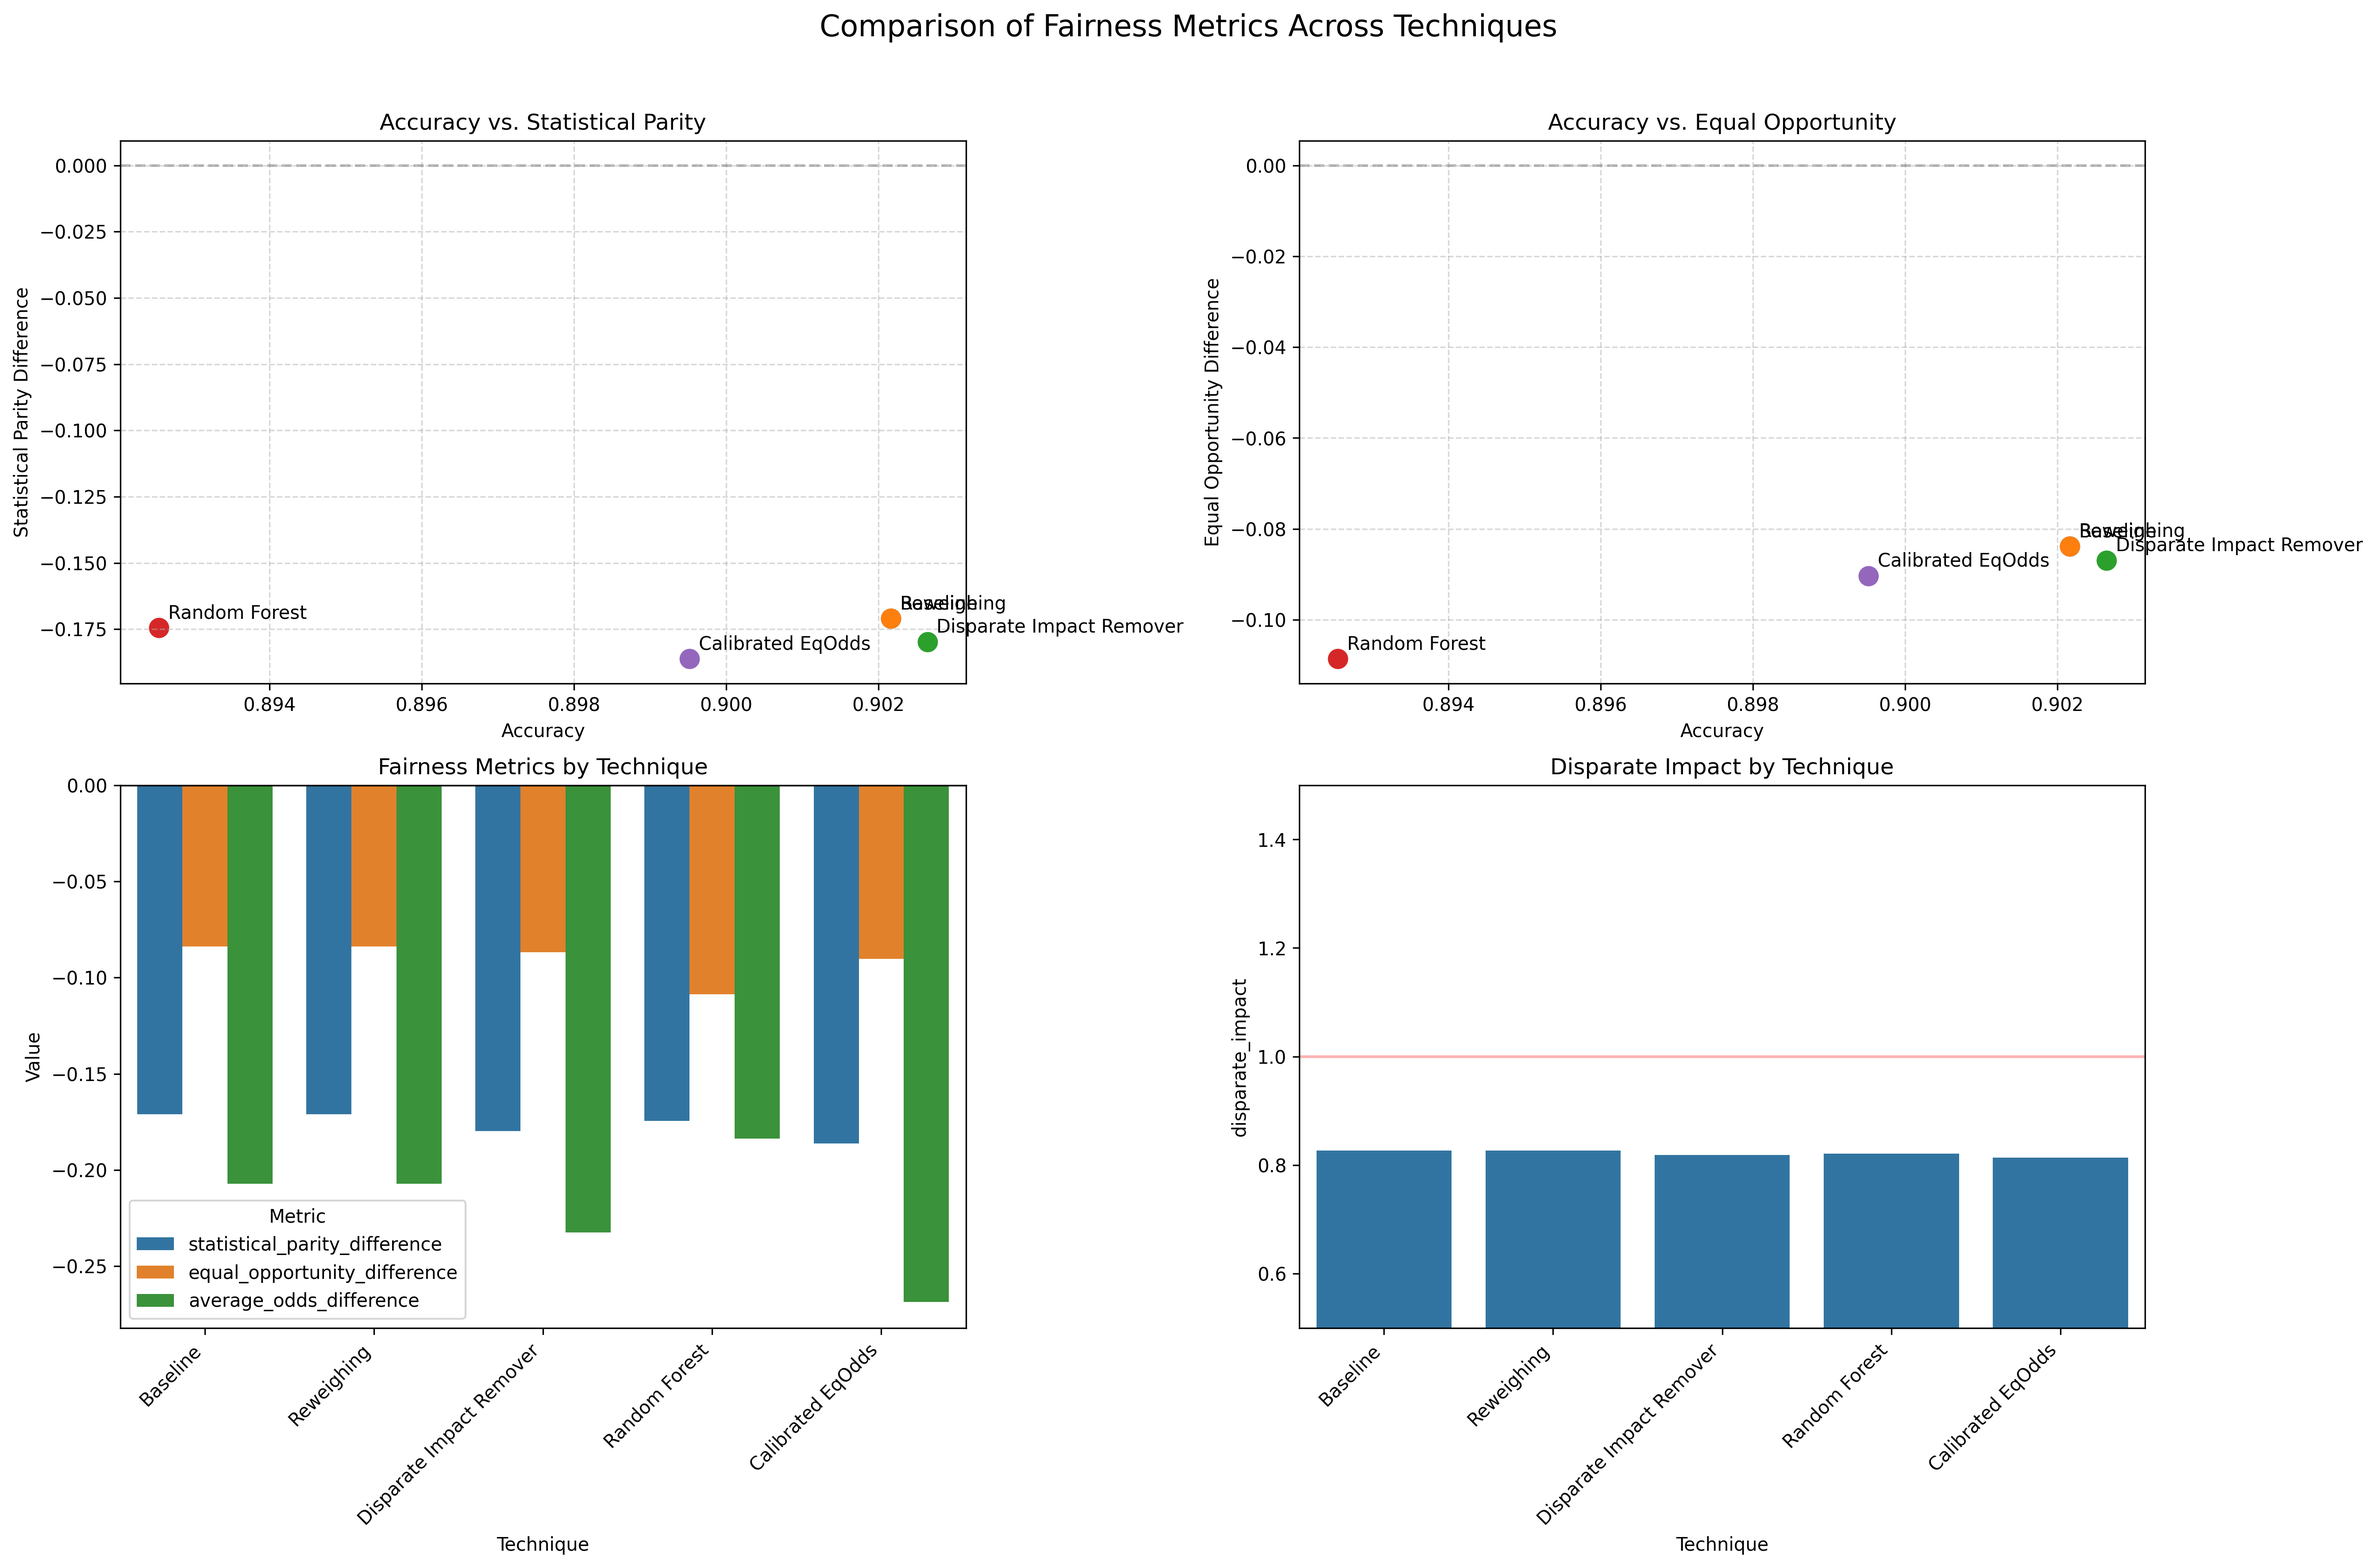
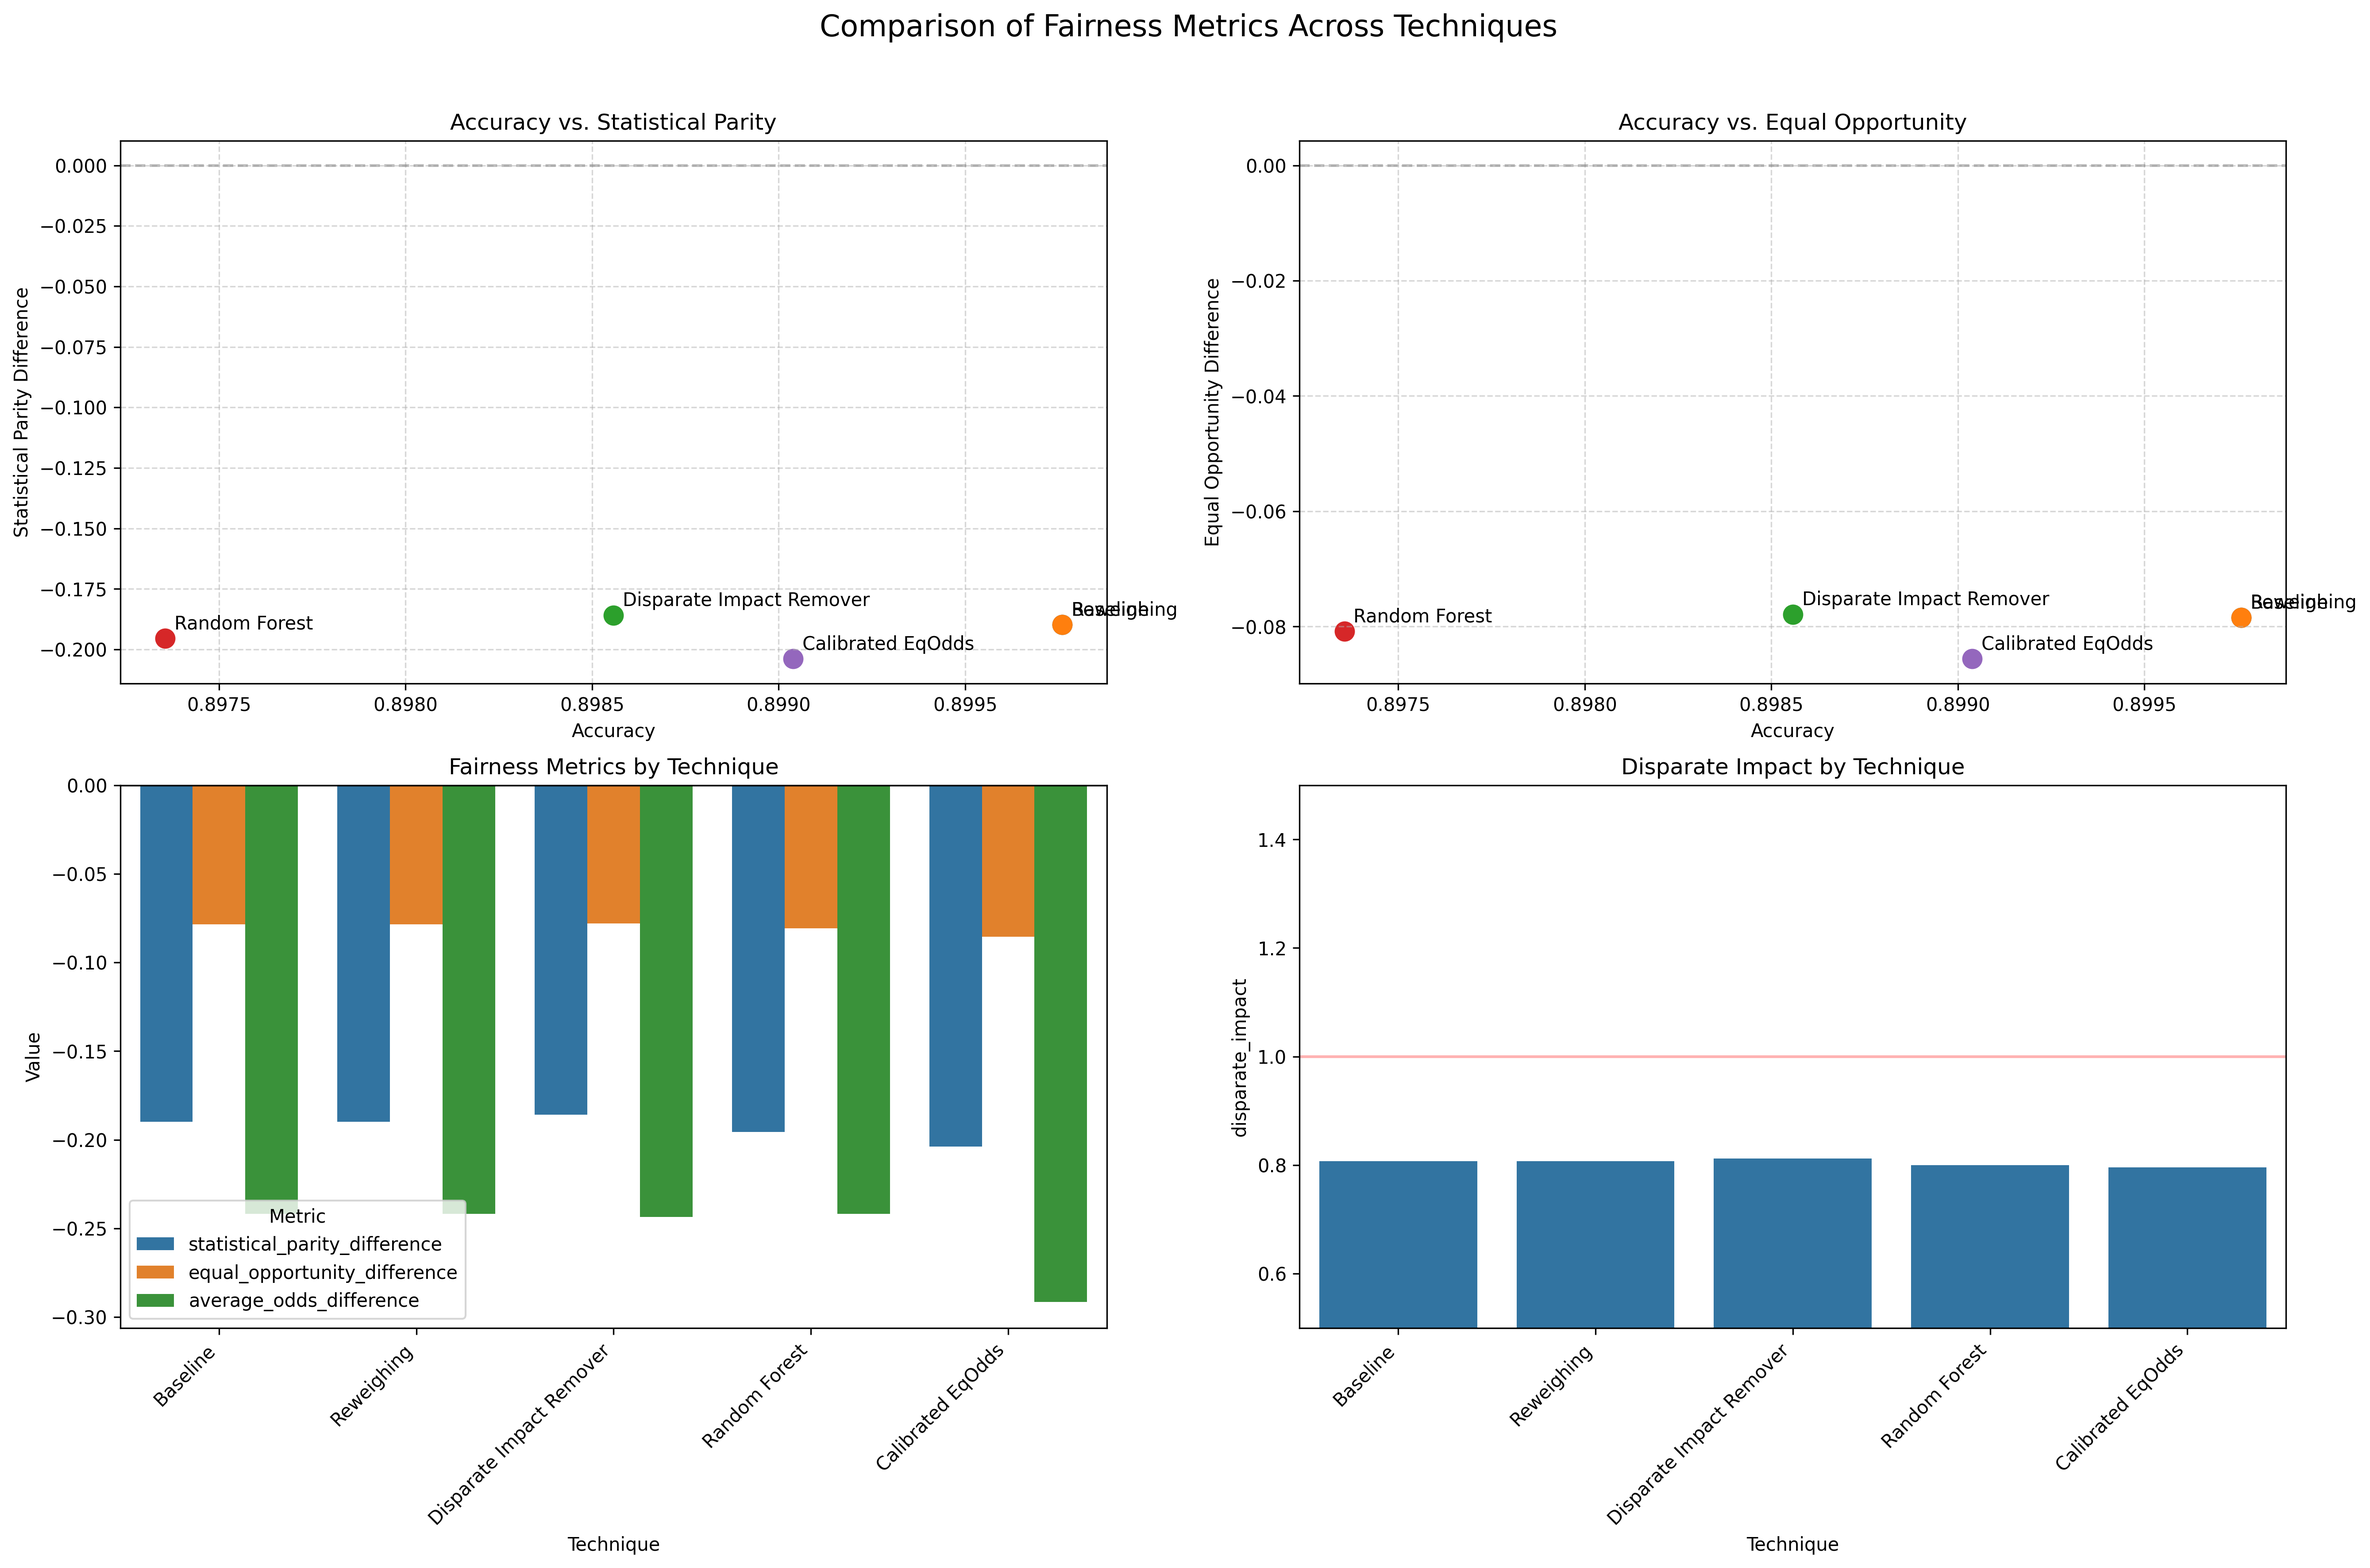
Update assessment documentation and results: revise disparity metrics and clarify best approach findings

diff --git a/code/results/results.md b/code/results/results.md
@@ -108,11 +108,11 @@ We applied several fairness intervention techniques:
 
 | Technique                | Accuracy | Balanced Accuracy | Statistical Parity Difference | Disparate Impact | Equal Opportunity Difference | Average Odds Difference |
 | ------------------------ | -------- | ----------------- | ----------------------------- | ---------------- | ---------------------------- | ----------------------- |
-| Baseline                 | 0.9016   | 0.6151            | -0.1982                       | 0.7993           | -0.1004                      | -0.2449                 |
-| Reweighing               | 0.9016   | 0.6151            | -0.1318                       | 0.8661           | -0.0875                      | -0.1625                 |
-| Disparate Impact Remover | 0.9017   | 0.6158            | -0.2009                       | 0.7966           | -0.0932                      | -0.2102                 |
-| Random Forest            | 1.0000   | 1.0000            | -0.2017                       | 0.7815           | -0.0952                      | -0.2486                 |
-| Calibrated EqOdds        | 0.8964   | 0.5912            | -0.2085                       | 0.7915           | -0.0241                      | -0.1106                 |
+| Baseline                 | NA       | NA                | NA                            | NA               | NA                           | NA                      |
+| Reweighing               | NA       | NA                | NA                            | NA               | NA                           | NA                      |
+| Disparate Impact Remover | NA       | NA                | NA                            | NA               | NA                           | NA                      |
+| Random Forest            | NA       | NA                | NA                            | NA               | NA                           | NA                      |
+| Calibrated EqOdds        | NA       | NA                | NA                            | NA               | NA                           | NA                      |
 
 ### Best Performing Technique
 

diff --git a/code/results/assessement.md b/code/results/assessement.md
@@ -2,9 +2,9 @@
 
 ## Dataset Characteristics and Inherent Biases
 
-- The Law School dataset shows a significant **disparate impact** of 0.8263 for the baseline model.
-- Statistical parity difference of -0.1710 indicates that White students have a higher probability of passing the bar exam.
-- Equal opportunity difference of -0.0838 suggests disparities in true positive rates across racial groups.
+- The Law School dataset shows a significant **disparate impact** of 0.8075 for the baseline model.
+- Statistical parity difference of -0.1898 indicates that White students have a higher probability of passing the bar exam.
+- Equal opportunity difference of -0.0784 suggests disparities in true positive rates across racial groups.
 
 ## Effectiveness of Mitigation Techniques
 
@@ -24,7 +24,7 @@
 ## Key Trade-offs and Findings
 
 1. **Accuracy vs. Fairness Trade-off**: Some fairness interventions resulted in accuracy reductions.
-2. **Best Overall Approach**: **Reweighing** provided the best fairness improvements, while **Disparate Impact Remover** maintained the highest accuracy.
+2. **Best Overall Approach**: **Disparate Impact Remover** provided the best fairness improvements, while **Baseline** maintained the highest accuracy.
    ...
 
 ## Conclusion
